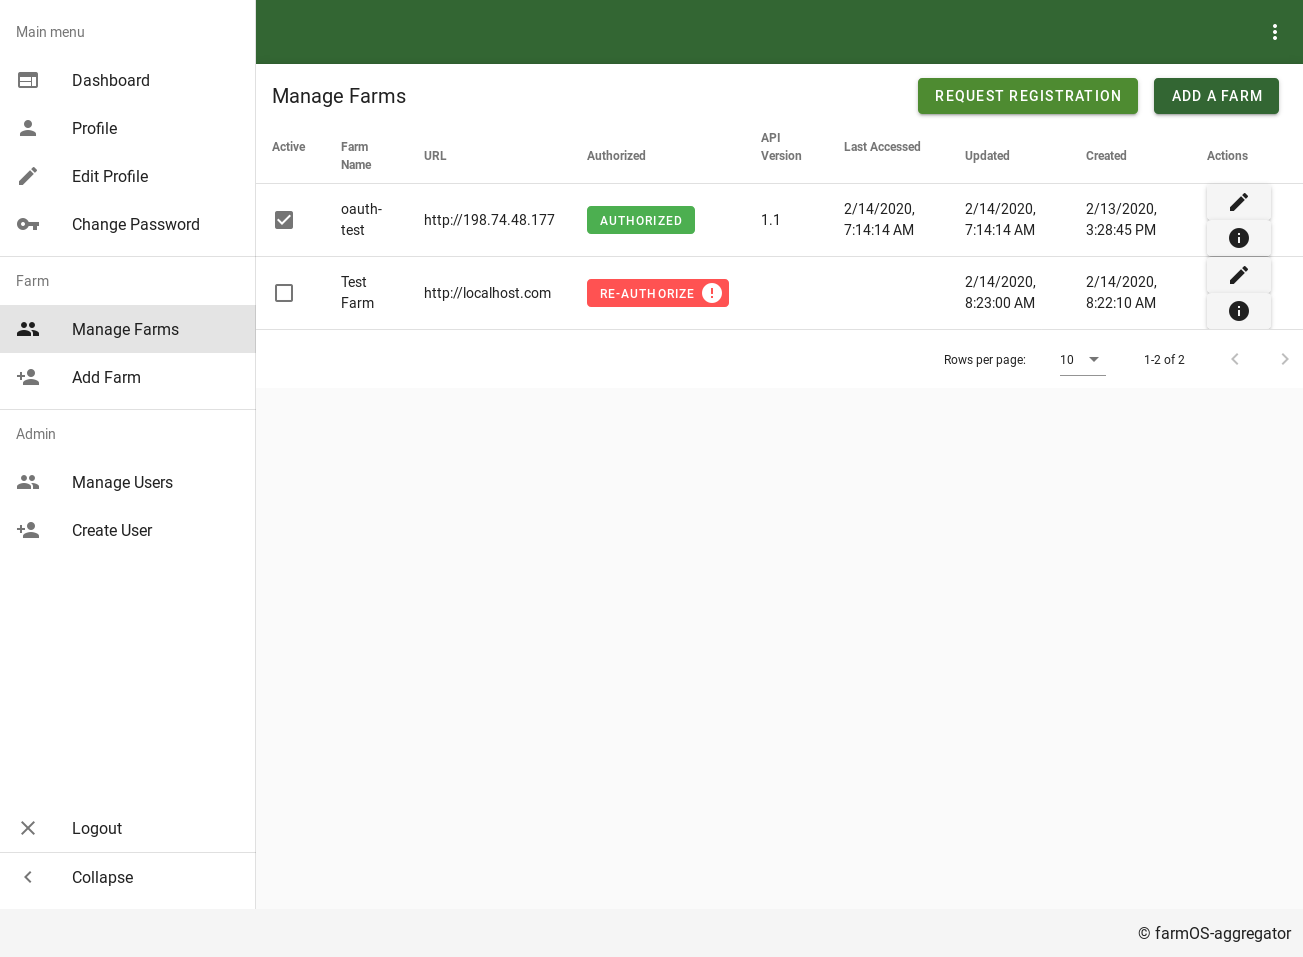
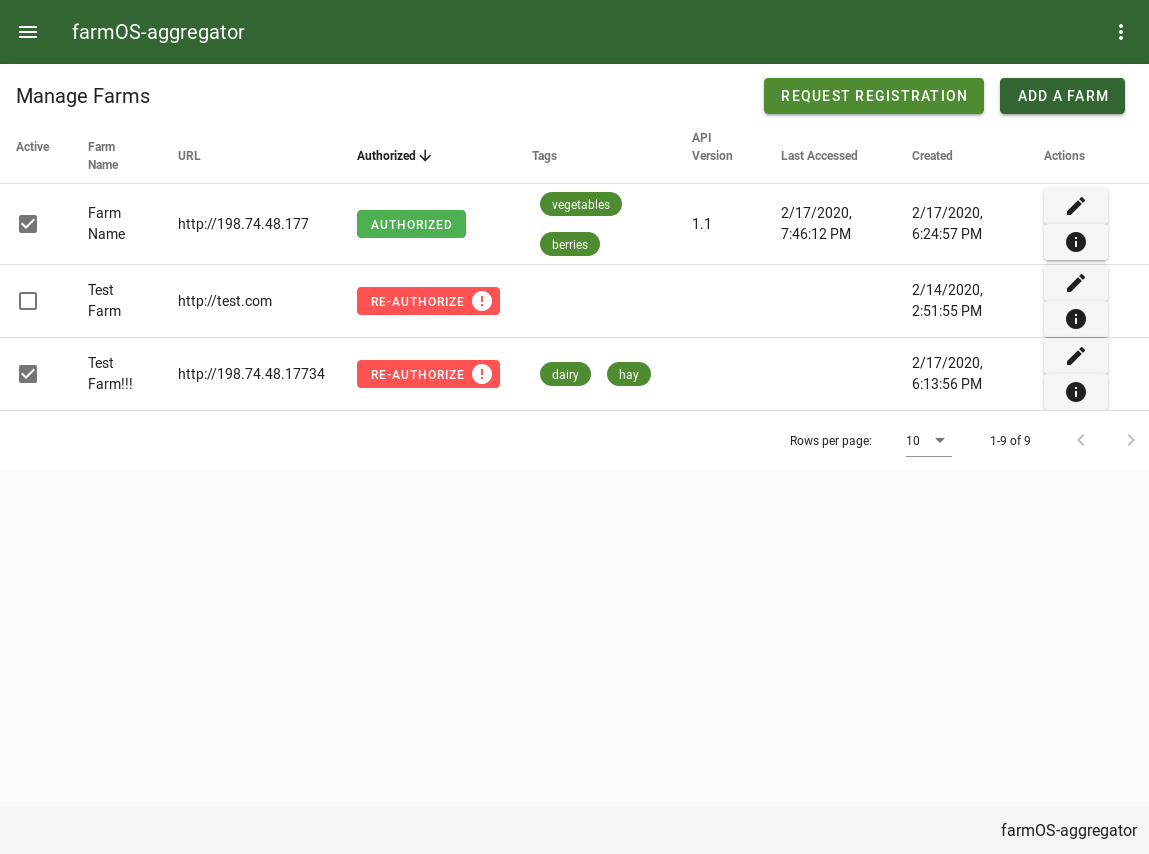
Create a component to display farm tags as chips.

diff --git a/frontend/src/views/main/farm/Farms.vue b/frontend/src/views/main/farm/Farms.vue
@@ -38,6 +38,9 @@
       <template v-slot:item.is_authorized="{ item }">
         <FarmAuthorizationStatus v-bind:farm=item ></FarmAuthorizationStatus>
       </template>
+      <template v-slot:item.tags="{ item }">
+        <FarmTagsChips v-bind:tags="item.tags"/>
+      </template>
       <template v-slot:item.last_accessed="{ item }">
            <span v-if="item.last_accessed" >
                 {{new Date(item.last_accessed).toLocaleString()}}
@@ -71,10 +74,11 @@ import { readFarms } from '@/store/farm/getters';
 import { dispatchGetFarms, dispatchGetFarmInfo, dispatchGetOneFarm } from '@/store/farm/actions';
 import FarmAuthorizationStatus from '@/components/FarmAuthorizationStatus.vue';
 import FarmRequestRegistrationDialog from '@/components/FarmRequestRegistrationDialog.vue';
+import FarmTagsChips from '@/components/FarmTagsChips.vue';
 import {FarmProfile} from '@/interfaces';
 
 @Component({
-    components: {FarmAuthorizationStatus, FarmRequestRegistrationDialog},
+    components: {FarmAuthorizationStatus, FarmRequestRegistrationDialog, FarmTagsChips},
 })
 export default class Farms extends Vue {
   public headers = [
@@ -103,6 +107,12 @@ export default class Farms extends Vue {
       align: 'left',
     },
     {
+        text: 'Tags',
+        sortable: true,
+        value: 'tags',
+        align: 'left',
+    },
+    {
       text: 'API Version',
       sortable: true,
       value: 'info.api_version',
@@ -114,13 +124,7 @@ export default class Farms extends Vue {
       value: 'last_accessed',
       align: 'left',
     },
-    {
-      text: 'Updated',
-      sortable: true,
-      value: 'time_updated',
-      align: 'left',
-    },
-    {
+   {
       text: 'Created',
       sortable: true,
       value: 'time_created',

diff --git a/frontend/src/views/RegisterFarm.vue b/frontend/src/views/RegisterFarm.vue
@@ -180,6 +180,9 @@
                               data-vv-scope="farmInfoForm"
                               :error-messages="errors.first('farmInfoForm.tags')"
                       />
+                      <div>
+                        <FarmTagsChips v-bind:tags="tags"/>
+                      </div>
                     </form>
                   </v-card-text>
                   <v-card-actions>
@@ -238,6 +241,9 @@
                               data-vv-scope="farmVerifyForm"
                               :error-messages="errors.first('farmVerifyForm.tags')"
                       />
+                      <div>
+                        <FarmTagsChips v-bind:tags="tags"/>
+                      </div>
                     </form>
                   </v-card-text>
                   <v-card-actions>
@@ -296,9 +302,10 @@ import {
     dispatchValidateFarmUrl,
 } from '@/store/farm/actions';
 import FarmAuthorizationForm from '@/components/FarmAuthorizationForm.vue';
+import FarmTagsChips from '@/components/FarmTagsChips.vue';
 
 @Component({
-  components: {FarmAuthorizationForm},
+  components: {FarmAuthorizationForm, FarmTagsChips},
 })
 export default class RegisterFarm extends Vue {
   public $refs!: {

diff --git a/frontend/src/views/main/farm/EditFarm.vue b/frontend/src/views/main/farm/EditFarm.vue
@@ -10,6 +10,11 @@
           <v-text-field label="Farm Name" v-model="farmName" required></v-text-field>
           <v-text-field label="URL" v-model="url" required></v-text-field>
           <v-text-field label="OAuth Scope" v-model="scope" required></v-text-field>
+          <v-text-field label="Tags" v-model="tags" ></v-text-field>
+          <div>
+            <FarmTagsChips v-bind:tags="tags"/>
+          </div>
+          <br>
           <FarmAuthorizationStatus v-bind:farm=farm></FarmAuthorizationStatus>
 
           <div class="d-flex">
@@ -84,9 +89,10 @@ import { dispatchGetFarms, dispatchUpdateFarm } from '@/store/farm/actions';
 import { readOneFarm } from '@/store/farm/getters';
 import Farm from '@/views/main/farm/Farm.vue';
 import FarmAuthorizationStatus from '@/components/FarmAuthorizationStatus.vue';
+import FarmTagsChips from '@/components/FarmTagsChips.vue';
 
 @Component({
-  components: {FarmAuthorizationStatus, Farm},
+  components: {FarmTagsChips, FarmAuthorizationStatus, Farm},
 })
 export default class EditFarm extends Vue {
   public valid = false;

diff --git a/frontend/src/views/main/farm/AddFarm.vue b/frontend/src/views/main/farm/AddFarm.vue
@@ -1,4 +1,4 @@
-<template>
+<template xmlns="">
   <v-container fluid>
     <v-card class="ma-3 pa-3">
       <v-card-title primary-title>
@@ -12,6 +12,9 @@
           <v-text-field label="OAuth Scope" v-model="scope"></v-text-field>
           <v-text-field label="Notes (Optional)" v-model="notes"></v-text-field>
           <v-text-field label="Tags (Optional)" v-model="tags"></v-text-field>
+          <div>
+            <FarmTagsChips v-bind:tags="tags"/>
+          </div>
 
 
           <div class="d-flex">
@@ -53,9 +56,10 @@ import {
 } from '@/interfaces';
 import { dispatchGetFarms, dispatchCreateFarm } from '@/store/farm/actions';
 import FarmRequestRegistrationDialog from '@/components/FarmRequestRegistrationDialog.vue';
+import FarmTagsChips from '@/components/FarmTagsChips.vue';
 
 @Component({
-    components: {FarmRequestRegistrationDialog},
+    components: {FarmRequestRegistrationDialog, FarmTagsChips},
 })
 export default class AddFarm extends Vue {
   public valid = false;

diff --git a/frontend/src/components/FarmTagsChips.vue b/frontend/src/components/FarmTagsChips.vue
@@ -1,0 +1,31 @@
+<template>
+ <span>
+    <v-chip
+      v-if="tagList[0] != ''"
+      v-for="tag in tagList"
+      :key="tag"
+      class="ma-2"
+      color="secondary"
+      small
+    >
+      {{ tag }}
+    </v-chip>
+ </span>
+</template>
+
+<script lang="ts">
+import {Component, Vue, Prop, Emit, Watch} from 'vue-property-decorator';
+
+@Component
+export default class FarmTagsChips extends Vue {
+    @Prop({default: ''}) public tags!: string;
+
+    get tagList() {
+        return this.tags.split(' ');
+    }
+}
+</script>
+
+<style scoped>
+
+</style>

diff --git a/docs/using-farmos-aggregator.md b/docs/using-farmos-aggregator.md
@@ -36,6 +36,7 @@ Features:
 - Displays the `authorization` status of the farm.
   - Hover over the `re-authorize` button to see the error.
   - Click on the authorized status button to see more info on the __ page.
+- Displays `tags` that can be used to categorize farms.
 - Displays `last_accessed` and `created` times.
 - Button to `edit` the farm profile - see edit farms.
 - Button to quickly refresh `farm info`. This is useful to diagnose connection problems.
